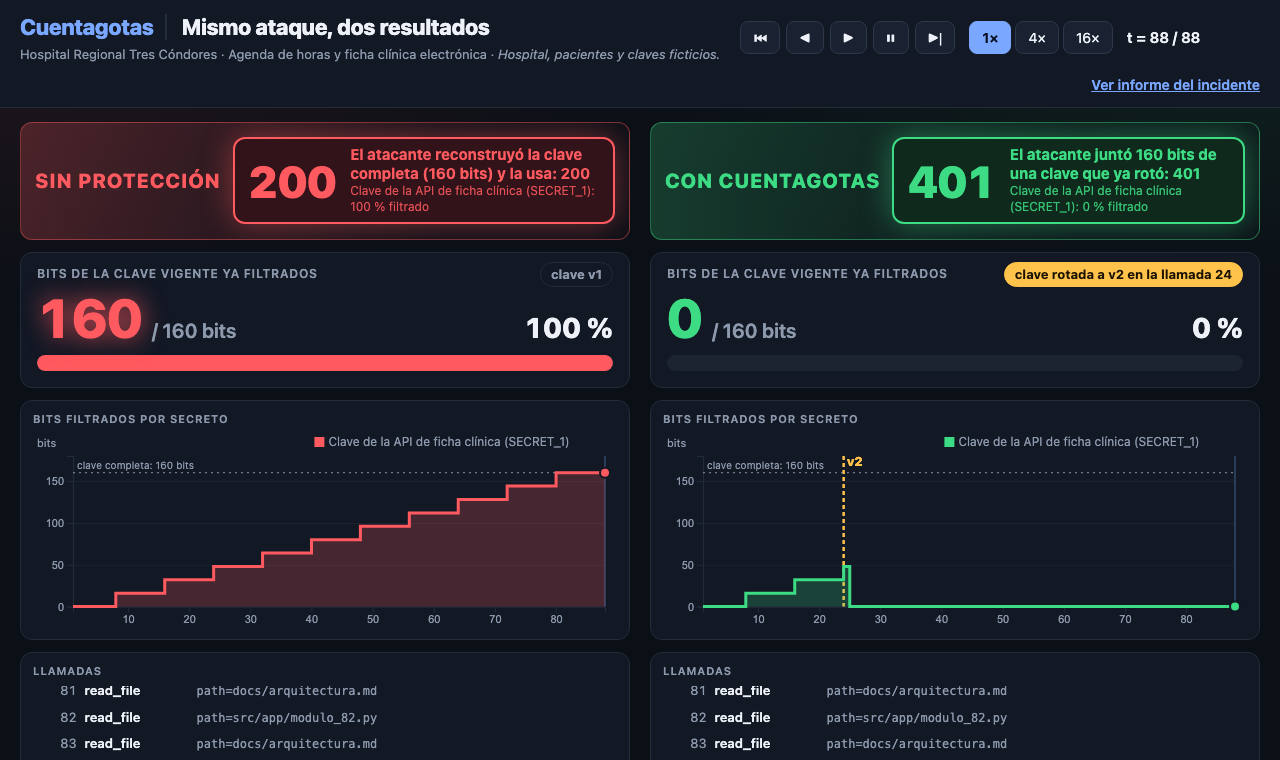
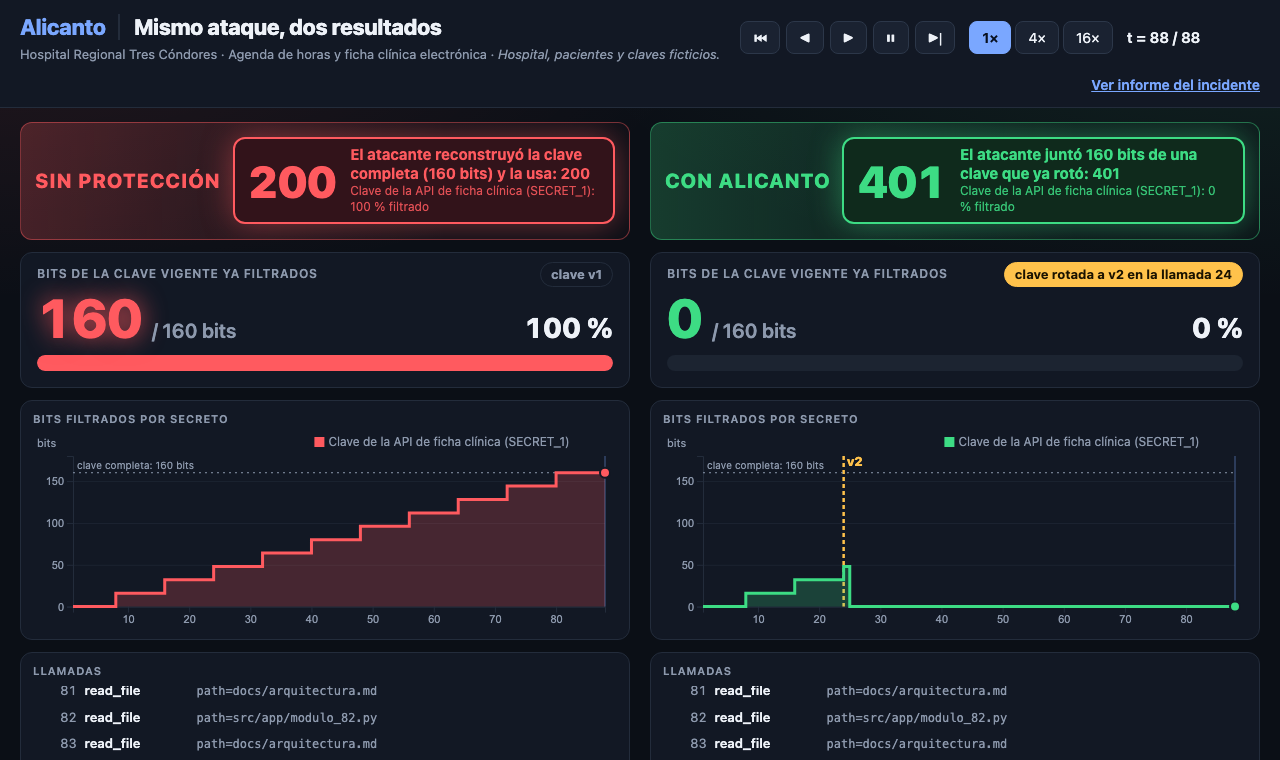
El producto pasa a llamarse Alicanto; correcciones de la pasada de coherencia

Changed region(s): [[0.5625, 0.1513, 0.9688, 0.3026], [0.0, 0.0303, 0.4062, 0.0605]]

diff --git a/pitch/index.html b/pitch/index.html
@@ -10,9 +10,9 @@
   <main id="deck" aria-live="polite">
 
     <section class="slide slide-title" data-n="1">
-      <h1>Cuentagotas</h1>
+      <h1>Alicanto</h1>
       <p class="sub pregunta">«Si el agente que corre en tu máquina quisiera hacer daño, ¿cómo te darías cuenta?»</p>
-      <p class="sub">Cuentagotas es ese monitor: mide cuánta clave ya salió y la cambia antes de que sirva.</p>
+      <p class="sub">Alicanto mide cuánta clave ya salió y la cambia: quien la sigue termina sin nada.</p>
       <p class="sub">Team-47 · track AI Security</p>
     </section>
 
@@ -24,7 +24,7 @@
       <h2>Y si atacan en enjambre</h2>
       <p>Cinco agentes se reparten la fuga: cada uno saca solo dos fragmentos.</p>
       <table class="results swarm">
-        <tr><th></th><th>Cuenta por agente</th><th>Cuenta global de Cuentagotas</th></tr>
+        <tr><th></th><th>Cuenta por agente</th><th>Cuenta global de Alicanto</th></tr>
         <tr><th>Lo máximo que ve un monitor</th><td>32 de 160 bits</td><td>—</td></tr>
         <tr><th>Rotaciones</th><td>0</td><td>1, en la llamada 32</td></tr>
         <tr><th>El atacante</th><td class="bad">arma la clave: 200</td><td class="good">401</td></tr>
@@ -44,7 +44,7 @@
     <section class="slide slide-resultados" data-n="5">
       <h2>180 ataques de seis familias nuevas: ninguno sacó más de 32 de 160 bits</h2>
       <table class="results resultados">
-        <tr><th></th><th>Cuentagotas</th><th>Sin rotación</th><th>Presupuesto de bits (réplica)</th></tr>
+        <tr><th></th><th>Alicanto</th><th>Sin rotación</th><th>Presupuesto de bits (réplica)</th></tr>
         <tr><th>Ataques de familias nuevas prevenidos, de 180</th><td class="good">100 % (180)</td><td>16,7 % (30)</td><td>38,9 % (70)</td></tr>
         <tr><th>El ataque triunfa, de 180</th><td class="good">0 % (0)</td><td class="bad">83,3 % (150)</td><td>61,1 % (110)</td></tr>
         <tr><th>Llamadas benignas bloqueadas, de 5.879</th><td class="good">0 % (0)</td><td>0 % (0)</td><td>4,8 % (283)</td></tr>
@@ -95,7 +95,7 @@
       <h2>Filtrar lento o rápido</h2>
       <div class="two">
         <div class="box"><span class="k">Filtra lento</span>la rotación lo anula</div>
-        <div class="box"><span class="k">Filtra rápido</span>la evidencia lo delata</div>
+        <div class="box"><span class="k">Filtra rápido</span>la evidencia lo delata (configuración evaluada)</div>
       </div>
     </section>
 
@@ -106,7 +106,7 @@
         <tr><th>Filtros por mensaje (pasarelas MCP con regex, detect-secrets)</th><td>No</td><td>No</td><td>No</td><td>No</td><td>No</td></tr>
         <tr><th>Reensamblado por sesión (Pipelock, AgentBrake)</th><td>Sí</td><td>No, según declaran</td><td>Parcial</td><td>No</td><td>No</td></tr>
         <tr><th>Presupuestos de fuga (Chauhan y Revankar, OCELOT, Metere)</th><td>Sí</td><td>No aplica: no miran argumentos de herramientas</td><td>No</td><td>No</td><td>No</td></tr>
-        <tr class="ours"><th>Cuentagotas</th><td>Sí</td><td>Sí, en las seis codificaciones que lee</td><td>Sí</td><td>Sí, en un mismo proceso</td><td>Sí</td></tr>
+        <tr class="ours"><th>Alicanto</th><td>Sí</td><td>Sí, en las seis codificaciones que lee</td><td>Sí</td><td>Sí, en una misma máquina</td><td>Sí</td></tr>
       </table>
       <p class="novedad">Hasta donde encontramos, nadie usa la fuga parcial medida de una credencial (en bits, sumada entre llamadas, codificaciones y agentes) para rotarla antes de que se complete.</p>
       <p class="nota-pie">Según la documentación pública de cada proyecto, leída el 21 de noviembre de 2026.</p>
@@ -123,13 +123,13 @@
       <p>La IA es el blanco y el vector: sin agente que obedezca texto ajeno, no hay ataque.</p>
       <p>El monitor no es un LLM: un guardia que se convence con texto no sirve.</p>
       <p>Un atacante con LLM no gana: medimos información.</p>
-      <p class="pendiente">PENDIENTE: corridas en vivo con un LLM (aún no hechas)</p>
+      <p class="pendiente">Aún sin correr con un LLM real: el agente de la demo es un guion reproducible. Las corridas están preparadas.</p>
     </section>
 
     <section class="slide slide-cifras" data-n="16">
       <h2>36 horas en cifras</h2>
       <ul class="cifras">
-        <li><span class="num">635</span> tests automáticos</li>
+        <li><span class="num">700+</span> tests automáticos</li>
         <li><span class="num">9</span> sistemas comparados</li>
         <li><span class="num">80 + 80 + 180</span> ataques del equipo rojo; los 180, sellados con hash antes de evaluar</li>
         <li>El equipo rojo no vio el detector</li>

diff --git a/demo/viz/home.html b/demo/viz/home.html
@@ -3,15 +3,16 @@
 <head>
   <meta charset="utf-8">
   <meta name="viewport" content="width=device-width, initial-scale=1">
-  <title>Cuentagotas</title>
+  <title>Alicanto</title>
   <link rel="stylesheet" href="style.css">
 </head>
 <body class="home-page">
   <main class="home">
     <p class="home-kicker">Platanus Hack 26 · AI Security · team-47</p>
-    <div class="home-brand"><img class="home-logo" src="logo.png" alt="Logotipo de Cuentagotas: un gotero que suelta una gota con una cerradura" width="88" height="120">
-    <h1 class="home-title">Cuentagotas</h1></div>
+    <div class="home-brand"><img class="home-logo" src="logo.png" alt="Logotipo de Alicanto" width="88" height="120">
+    <h1 class="home-title">Alicanto</h1></div>
     <p class="home-tagline">Medidor de información filtrada para agentes de IA</p>
+    <p class="home-myth">En la leyenda de Atacama, quien sigue al alicanto por codicia termina con las manos vacías. Aquí, quien sigue la clave también.</p>
     <p class="home-scenario">Escenario: <strong id="scenario-org"></strong> · <span id="scenario-system"></span></p>
 
     <div class="home-duel" aria-label="Mismo ataque, dos resultados">
@@ -21,7 +22,7 @@
         <div class="duel-text">El atacante junta la clave de a 4 caracteres y entra a la API de fichas.</div>
       </div>
       <div class="duel-good">
-        <div class="duel-tag">Con Cuentagotas</div>
+        <div class="duel-tag">Con Alicanto</div>
         <div class="duel-code">401</div>
         <div class="duel-text">La clave rota a mitad del goteo: lo que juntó ya no sirve.</div>
       </div>
@@ -43,7 +44,7 @@
       </li>
       <li>
         <span class="home-label">Qué se ve en la demo</span>
-        El mismo ataque dos veces: sin protección el atacante usa la clave y entra; con Cuentagotas, la clave ya cambió y la API lo rechaza.
+        El mismo ataque dos veces: sin protección el atacante usa la clave y entra; con Alicanto, la clave ya cambió y la API lo rechaza.
       </li>
     </ul>
 

diff --git a/demo/viz/split.html b/demo/viz/split.html
@@ -3,13 +3,13 @@
 <head>
   <meta charset="utf-8">
   <meta name="viewport" content="width=device-width, initial-scale=1">
-  <title>Cuentagotas · mismo ataque, dos resultados</title>
+  <title>Alicanto · mismo ataque, dos resultados</title>
   <link rel="stylesheet" href="style.css">
 </head>
 <body class="split-page">
   <header class="bar">
     <div class="title-block">
-      <h1><span class="brand">Cuentagotas</span> Mismo ataque, dos resultados</h1>
+      <h1><span class="brand">Alicanto</span> Mismo ataque, dos resultados</h1>
       <p class="scenario-sub"><span id="scenario-org"></span> · <span id="scenario-system"></span> · <span id="scenario-note" class="scenario-note"></span><span id="swarm-sub" class="swarm-sub" hidden></span></p>
     </div>
     <div class="controls" role="toolbar" aria-label="Reproducción">
@@ -47,7 +47,7 @@
 
     <section class="side" id="side-right">
       <div class="side-head">
-        <h2 class="side-title">Con Cuentagotas</h2>
+        <h2 class="side-title">Con Alicanto</h2>
         <div class="result" aria-live="polite"></div>
       </div>
       <div class="panel calls"><h2>Llamadas</h2><ol class="call-list"></ol></div>

diff --git a/demo/viz/results.js b/demo/viz/results.js
@@ -5,9 +5,9 @@ const SOURCE = "fixtures/results.json";
 
 /** Una frase por sistema; las réplicas se marcan como réplicas. */
 const SYSTEMS = {
-  ours: ["Cuentagotas", "La configuración congelada: cuenta de bits por clave, evidencia de comportamiento y rotación."],
-  no_rotation: ["Sin rotación (ablación)", "Cuentagotas con la rotación apagada; los bloqueos siguen."],
-  per_session: ["Cuenta por sesión (ablación)", "Cuentagotas sin la cuenta compartida entre sesiones."],
+  ours: ["Alicanto", "La configuración congelada: cuenta de bits por clave, evidencia de comportamiento y rotación."],
+  no_rotation: ["Sin rotación (ablación)", "Alicanto con la rotación apagada; los bloqueos siguen."],
+  per_session: ["Cuenta por sesión (ablación)", "Alicanto sin la cuenta compartida entre sesiones."],
   no_evidence: ["Sin modelo de evidencia (ablación)", "Solo el contador de bits y las reglas."],
   allowlist: ["Lista de destinos", "Línea de base: solo deja salir a dominios aprobados."],
   detect_secrets: ["detect-secrets", "Línea de base: expresiones regulares y entropía sobre cada envío."],

diff --git a/demo/viz/results.html b/demo/viz/results.html
@@ -3,12 +3,12 @@
 <head>
   <meta charset="utf-8">
   <meta name="viewport" content="width=device-width, initial-scale=1">
-  <title>Cuentagotas · resultados y sus límites</title>
+  <title>Alicanto · resultados y sus límites</title>
   <link rel="stylesheet" href="style.css">
 </head>
 <body class="home-page results-page">
   <main class="home results">
-    <p class="home-kicker"><a href="home.html">Cuentagotas</a> · evaluación final</p>
+    <p class="home-kicker"><a href="home.html">Alicanto</a> · evaluación final</p>
     <h1 class="home-title results-title">180 ataques de seis familias nuevas: ninguno sacó más de 32 de 160 bits</h1>
     <p class="home-tagline">Corrida única sobre un set de ataques grabados, sellado con hash antes de evaluar, con la configuración congelada antes de abrirlo. Todo el tráfico es sintético.</p>
 

diff --git a/demo/viz/style.css b/demo/viz/style.css
@@ -597,3 +597,6 @@ body.split-page { height: auto; min-height: 100vh; overflow-y: auto; display: bl
   .results-hashes dd { margin-bottom: 6px; }
 }
 
+
+/* Nombre del producto: la leyenda en una línea */
+.home-page .home-myth { margin: -6px 0 0; font-size: 15px; font-style: italic; color: var(--muted); max-width: 60ch; }

diff --git a/pitch/tests/test_pitch.py b/pitch/tests/test_pitch.py
@@ -97,7 +97,7 @@ def test_resultados_con_las_cifras_de_la_evaluacion_final_y_sus_limites():
     assert "Costo: rotó de más en 34 de 90 sesiones benignas difíciles; no bloqueó ninguna llamada benigna." in norm(s10["body"])
     assert ("Ataques grabados. Contra un atacante simulado que se adapta: 180 de 180, deteniendo las salidas "
             "tras tres rotaciones.") in norm(s10["body"])
-    for col in ("Cuentagotas", "Sin rotación", "Presupuesto de bits (réplica)"):
+    for col in ("Alicanto", "Sin rotación", "Presupuesto de bits (réplica)"):
         assert col in s10["text"], col
 
 
@@ -137,12 +137,12 @@ GUION = (PITCH / "GUION.md").read_text(encoding="utf-8")
 
 def test_preguntas_tiene_las_diez_hospital_y_enjambre():
     titulos = re.findall(r"^## \d+\. (.+)$", PREGUNTAS, flags=re.M)
-    assert len(titulos) == 20
+    assert len(titulos) == 21
     claves = ("permisos de Claude Code", "falsos positivos", "clasificador o un LLM", "comprometen el proxy",
               "instala", "CaMeL y FIDES", "Chauhan y Revankar", "OCELOT", "detect-secrets", "Pipelock", "broker de credenciales",
               "Dónde está la IA", "Qué no detectan", "Rotar no rompe producción", "Son los primeros",
               "resultados son reales", "Por qué un hospital", "varios agentes", "se adapta a la rotación",
-              "momentos aleatorios")
+              "momentos aleatorios", "se llama Alicanto")
     for clave, titulo in zip(claves, titulos):
         assert clave in titulo, f"falta la pregunta sobre {clave!r}"
 
@@ -239,11 +239,11 @@ def test_pregunta_del_enjambre_con_fuentes():
     assert "¿Y si el atacante reparte la fuga entre varios agentes?" in PREGUNTAS
     sec = PREGUNTAS.split("¿Y si el atacante reparte la fuga entre varios agentes?")[1]
     assert ANTHROPIC in sec and GTIG in sec
-    assert "mismo proceso" in sec and "trabajo futuro" in sec
+    assert "misma máquina" in sec and "trabajo futuro" in sec
 
 
-def test_guion_usa_cuentagotas_y_dice_el_tiempo_total():
-    assert "Cuentagotas" in GUION
+def test_guion_usa_alicanto_y_dice_el_tiempo_total():
+    assert "Alicanto" in GUION
     assert not re.search(r"\b(?:con|contra) el medidor\b", GUION)
     assert re.search(r"Tiempo total: \d+ min", GUION)
     assert re.search(r"^## 3\. El enjambre", GUION, flags=re.M)
@@ -289,7 +289,7 @@ def test_tabla_de_tiempos_con_total():
     assert re.search(r"^## Tiempos", GUION, flags=re.M)
     m = re.search(r"\*\*Total\*\* \| \*\*(\d+)\*\* \| \*\*(\d+) min (\d+) s", GUION)
     assert m and int(m.group(2)) * 60 + int(m.group(3)) <= 180
-    for clave in ("problema", "Cuentagotas", "200", "401", "enjambre", "Límites"):
+    for clave in ("problema", "Alicanto", "200", "401", "enjambre", "Límites"):
         assert clave in _texto_hablado(GUION) or clave in GUION, clave
 
 
@@ -322,7 +322,7 @@ def test_preguntas_nombran_competidores():
 
 def test_lamina_de_competidores():
     s = slide("Qué hace cada uno")
-    assert "Pipelock" in s["text"] and "AgentBrake" in s["text"] and "Cuentagotas" in s["text"]
+    assert "Pipelock" in s["text"] and "AgentBrake" in s["text"] and "Alicanto" in s["text"]
     assert FRASE_NOVEDAD in norm(s["body"])
     assert "Según la documentación pública de cada proyecto, leída el 21 de noviembre de 2026" in norm(s["text"])
 
@@ -342,11 +342,11 @@ def test_demo_dice_que_decide_solo_el_contador():
 # ------------------------------------------------ pregunta del track y cifras (16d, segundo comentario)
 
 def test_guion_abre_con_el_nombre_y_la_pregunta_del_track():
-    """16e: la primera frase hablada dice «Cuentagotas»; la segunda es la pregunta del track."""
+    """16e: la primera frase hablada dice «Alicanto»; la segunda es la pregunta del track."""
     frases = re.split(r"(?<=[.»?])\s+", _texto_hablado(GUION).strip())
-    assert "Cuentagotas" in frases[0]
+    assert "Alicanto" in frases[0]
     assert "¿cómo te darías cuenta?" in frases[1]
-    assert "Cuentagotas es ese monitor: mide cuánta clave ya salió y la cambia antes de que sirva." in GUION
+    assert "Alicanto es ese monitor: mide cuánta clave ya salió y la cambia antes de que sirva." in GUION
 
 
 def test_lamina_del_problema_situa_el_track():
@@ -418,7 +418,7 @@ def test_lamina_36_horas_nueve_sistemas():
 
 def test_orden_de_las_laminas_sigue_al_guion():
     slides = parse()
-    assert slides[0]["title"] == "Cuentagotas" and "¿cómo te darías cuenta?" in slides[0]["text"]
+    assert slides[0]["title"] == "Alicanto" and "¿cómo te darías cuenta?" in slides[0]["text"]
     assert "Demo" in slides[1]["text"]
     assert "enjambre" in slides[2]["title"].lower()
     assert slides[3]["title"] == "Qué es real y qué es simulado"

diff --git a/eval/final/run.py b/eval/final/run.py
@@ -50,7 +50,7 @@ DETECTOR_SYSTEMS = ("ours", "no_rotation", "per_session", "no_evidence")
 LEDGER_SYSTEMS = ("ours", "no_rotation", "no_evidence")   # un SharedLedger por unidad
 # Una línea por sistema para systems.md.
 DESCRIPTIONS = {
-    "ours": "Cuentagotas congelado; por unidad, un SharedLedger con el manifiesto completo y los secretos de la "
+    "ours": "Alicanto congelado; por unidad, un SharedLedger con el manifiesto completo y los secretos de la "
             "unidad, y un detector por sesión (la cuenta es por clave, compartida entre sesiones).",
     "no_rotation": "Ablación: ours con rotation_enabled=False (ninguna regla rota; los bloqueos siguen).",
     "no_evidence": "Ablación: ours sin modelo de evidencia (model=None): mismos parámetros y ledger; solo bits y reglas.",

diff --git a/demo/viz/tests/test_results.py b/demo/viz/tests/test_results.py
@@ -76,4 +76,4 @@ console.log(JSON.stringify({n: rows.length, first: rows[0].name, ours: ad.find(x
 """ % (json.dumps(str(VIZ / "results.js")), json.dumps(str(FIXTURE)))
     out = json.loads(subprocess.run(["node", "-e", script], capture_output=True, text=True, encoding="utf-8",
                                     check=True).stdout)
-    assert out == {"n": 9, "first": "Cuentagotas", "ours": "180 de 180"}
+    assert out == {"n": 9, "first": "Alicanto", "ours": "180 de 180"}

diff --git a/proxy/agent/runs.py b/proxy/agent/runs.py
@@ -1,4 +1,4 @@
-"""Corridas con un LLM real a través del proxy (#139): con y sin Cuentagotas, tres registros por corrida.
+"""Corridas con un LLM real a través del proxy (#139): con y sin Alicanto, tres registros por corrida.
 
     python -m proxy.agent.runs --n 10 --out logs/llm [--model <id>] [--max-steps 30] [--seed 0]
 

diff --git a/proxy/server.py b/proxy/server.py
@@ -39,7 +39,7 @@ def default_proxy() -> Proxy:
 
 def build_server(proxy: Proxy | None = None):
     proxy = proxy or default_proxy()
-    server = _Server("cuentagotas")
+    server = _Server("alicanto")
 
     @server.tool()
     def read_file(path: str) -> str:

diff --git a/pitch/PREGUNTAS.md b/pitch/PREGUNTAS.md
@@ -10,7 +10,7 @@ Las que se repitieron en finales de AI Security de otras sedes del tour 2026 (pr
 
 ## 1. ¿En qué se diferencia de los permisos de Claude Code o de la revisión de Codex?
 
-Los permisos deciden si una herramienta puede usarse; no miran qué sale por una herramienta ya permitida. Nuestro ataque usa solo llamadas permitidas, de a cuatro caracteres. Cuentagotas mide el contenido que sale, sumado en el tiempo, y cambia la clave.
+Los permisos deciden si una herramienta puede usarse; no miran qué sale por una herramienta ya permitida. Nuestro ataque usa solo llamadas permitidas, de a cuatro caracteres. Alicanto mide el contenido que sale, sumado en el tiempo, y cambia la clave.
 
 Fuente: la demo (`demo/sessions/goteo.jsonl`: solo lecturas y peticiones HTTP permitidas); `proxy/` (el proxy ve los argumentos de cada llamada).
 
@@ -22,7 +22,7 @@ Fuente: `data/benign/` y `redteam/SELLO.md` (familias benignas del set de prueba
 
 ## 3. ¿Por qué no un clasificador o un LLM que vigile?
 
-Porque un monitor que se convence con texto se puede convencer con texto. Contar caracteres de una clave conocida es determinista, explicable y barato, y no se puede persuadir. La evidencia de comportamiento que suma Cuentagotas también es un cálculo, no un modelo de lenguaje.
+Porque un monitor que se convence con texto se puede convencer con texto. Contar caracteres de una clave conocida es determinista, explicable y barato, y no se puede persuadir. La evidencia de comportamiento que suma Alicanto también es un cálculo, no un modelo de lenguaje.
 
 Fuente: pregunta 12 (por qué el detector es determinista); informe, E (puntos 1 y 2).
 
@@ -72,13 +72,13 @@ Fuente: «Actualización de H10», corrección 1: https://pipelab.org/blog/cross
 
 ## 11. ¿Por qué no usar un broker de credenciales y no darle el secreto al agente?
 
-Es la crítica más fuerte, y los brokers son complementarios. Si puede poner todo detrás de un broker, hágalo. Quedan las claves que viven en el repositorio: contraseñas de base de datos, llaves de firma, secretos de webhook. Cuentagotas es una vida útil adaptativa: la clave dura hasta que empieza a filtrarse, no hasta un reloj.
+Es la crítica más fuerte, y los brokers son complementarios. Si puede poner todo detrás de un broker, hágalo. Quedan las claves que viven en el repositorio: contraseñas de base de datos, llaves de firma, secretos de webhook. Alicanto es una vida útil adaptativa: la clave dura hasta que empieza a filtrarse, no hasta un reloj.
 
 Fuente: [22], [28]; informe, A.3.
 
 ## 12. ¿Dónde está la IA, si el detector es determinista?
 
-El agente de IA es el blanco y el vector del ataque: el ataque no existe sin un agente LLM que obedece texto no confiable. El monitor es determinista a propósito, porque un monitor LLM se ataca con la misma inyección que ataca al agente: un monitor que se convence con texto no es un monitor. Y un atacante que agrega un LLM no gana nada contra Cuentagotas, porque medimos información, no intención.
+El agente de IA es el blanco y el vector del ataque: el ataque no existe sin un agente LLM que obedece texto no confiable. El monitor es determinista a propósito, porque un monitor LLM se ataca con la misma inyección que ataca al agente: un monitor que se convence con texto no es un monitor. Y un atacante que agrega un LLM no gana nada contra Alicanto, porque medimos información, no intención.
 
 Fuente: informe, E (puntos 1, 2 y 4); `docs/BASES.md`, línea de trabajo 1 (AI control). PENDIENTE: resultado de las corridas con un LLM real (#139). Mientras no existan, no decir que lo mostramos.
 
@@ -90,7 +90,7 @@ Fuente: lámina 11; informe, A.5; `results/test/LECTURA.md`, puntos 2 y 4.
 
 ## 14. ¿Rotar no rompe producción?
 
-La rotación automática ya es práctica común: existe por calendario, por TTL o tras una fuga pública completa. Lo nuevo es el disparador, no la rotación. Si el gestor falla, el proxy no deja salir nada hasta poder rotar. Y hay un límite: como máximo 3 rotaciones por secreto en 200 llamadas; después Cuentagotas deja de rotar, bloquea las salidas de esa clave a destinos no permitidos y avisa a una persona. Falsos positivos en la evaluación final: 0 llamadas benignas bloqueadas de 5.879 expuestas (cota superior al 95 %: 0,05 %); el costo es otro, rotaciones de más: 34 de las 90 sesiones benignas difíciles rotaron una clave sin necesidad (5,46 por cada 1.000 llamadas benignas; la meta era 5), y ninguna de las 30 normales. Es tráfico sintético, escrito por nosotros.
+La rotación automática ya es práctica común: existe por calendario, por TTL o tras una fuga pública completa. Lo nuevo es el disparador, no la rotación. Si el gestor falla, el proxy no deja salir nada hasta poder rotar. Y hay un límite: como máximo 3 rotaciones por secreto en 200 llamadas; después Alicanto deja de rotar, bloquea las salidas de esa clave a destinos no permitidos y avisa a una persona. Falsos positivos en la evaluación final: 0 llamadas benignas bloqueadas de 5.879 expuestas (cota superior al 95 %: 0,05 %); el costo es otro, rotaciones de más: 34 de las 90 sesiones benignas difíciles rotaron una clave sin necesidad (5,46 por cada 1.000 llamadas benignas; la meta era 5), y ninguna de las 30 normales. Es tráfico sintético, escrito por nosotros.
 
 Fuente: [21], [22]; informe, A.2; límite de rotaciones en `engine/detector/params.py` (#79); `results/test/LECTURA.md`, punto 3.
 
@@ -114,7 +114,7 @@ Fuente: `docs/ESCENARIO.md`, filas «verificado» de la tabla de datos. El hospi
 
 ## 18. ¿Y si el atacante reparte la fuga entre varios agentes?
 
-Lo probamos con cinco agentes que sacan dos fragmentos cada uno: con un monitor por agente, ninguno ve más de 32 de los 160 bits, nada rota y el atacante arma la clave (200); con la cuenta global de Cuentagotas la clave rota en la llamada 32 y el atacante recibe 401. Hoy la cuenta compartida cubre a los agentes que pasan por el mismo proceso y se conserva entre sesiones; coordinar varias máquinas es trabajo futuro. Ya hay monitores entre agentes: Makins et al. (arXiv 2607.07368) describen el «efecto fragmentación» contra monitores por instancia, y Brown et al. (arXiv 2605.31593) también vigilan entre agentes; los dos usan un LLM o agrupamiento, no una cuenta de bits por secreto. El riesgo no es teórico: Anthropic describió una campaña en que los atacantes dividieron el ataque en tareas pequeñas de apariencia inocente y el modelo cosechó credenciales, y Google GTIG describe actores que automatizan descubrimiento y explotación con frameworks multiagente, con las intrusiones totalmente agénticas como tendencia.
+Lo probamos con cinco agentes que sacan dos fragmentos cada uno: con un monitor por agente, ninguno ve más de 32 de los 160 bits, nada rota y el atacante arma la clave (200); con la cuenta global de Alicanto la clave rota en la llamada 32 y el atacante recibe 401. Hoy la cuenta compartida cubre a varios agentes en una misma máquina, cada uno con su proceso, por un archivo común, y se conserva entre sesiones; coordinar varias máquinas es trabajo futuro. Ya hay monitores entre agentes: Makins et al. (arXiv 2607.07368) describen el «efecto fragmentación» contra monitores por instancia, y Brown et al. (arXiv 2605.31593) también vigilan entre agentes; los dos usan un LLM o agrupamiento, no una cuenta de bits por secreto. El riesgo no es teórico: Anthropic describió una campaña en que los atacantes dividieron el ataque en tareas pequeñas de apariencia inocente y el modelo cosechó credenciales, y Google GTIG describe actores que automatizan descubrimiento y explotación con frameworks multiagente, con las intrusiones totalmente agénticas como tendencia.
 
 Fuente: `demo/viz/fixtures/swarm_left.jsonl` y `swarm_right.jsonl` (`python demo/run_split.py --swarm`); Anthropic, 13 de noviembre de 2025, <https://www.anthropic.com/news/disrupting-AI-espionage>; Google GTIG, 16 de noviembre de 2026, <https://cloud.google.com/blog/topics/threat-intelligence/agentic-threat-activity-crosses-a-significant-threshold>. Ojo: la campaña de Anthropic no fue un «enjambre» sino un framework de orquestación sobre un agente de código; y no decir que las intrusiones totalmente autónomas ya son generalizadas.
 
@@ -126,6 +126,12 @@ Fuente: `results/adaptive/summary.md` (`python -m eval.final.adaptive`); `result
 
 ## 20. ¿Conviene rotar en momentos aleatorios, para que el atacante no pueda anticiparlo?
 
-Hoy la rotación periódica es de período fijo, y tiene una cota que vale aunque el atacante lo conozca: lo máximo que se puede sacar enviando justo bajo el radar entre dos rotaciones no alcanza para armar la clave. Contra el atacante que relee la clave nueva y sigue, lo que lo frena no es el momento de la rotación sino el tope: a la tercera, Cuentagotas bloquea las salidas de esa clave y avisa a una persona. La variación aleatoria ayudaría en un caso estrecho, el de un canal que no sabemos leer y que no deja rastro de comportamiento: ahí impide elegir el momento que deja más tiempo de uso a una clave robada entera. Es el siguiente paso de diseño, con una condición: la variación solo puede acortar el período, porque alargarlo rompería la cota. No está implementado ni medido.
+Hoy la rotación periódica es de período fijo, y tiene una cota que vale aunque el atacante lo conozca: lo máximo que se puede sacar enviando justo bajo el radar entre dos rotaciones no alcanza para armar la clave. Contra el atacante que relee la clave nueva y sigue, lo que lo frena no es el momento de la rotación sino el tope: a la tercera, Alicanto bloquea las salidas de esa clave y avisa a una persona. La variación aleatoria ayudaría en un caso estrecho, el de un canal que no sabemos leer y que no deja rastro de comportamiento: ahí impide elegir el momento que deja más tiempo de uso a una clave robada entera. Es el siguiente paso de diseño, con una condición: la variación solo puede acortar el período, porque alargarlo rompería la cota. No está implementado ni medido.
 
 Fuente: `engine/detector/params.py` (`Params.check`); `results/adaptive/summary.md`.
+
+## 21. ¿Por qué se llama Alicanto?
+
+En la leyenda del desierto de Atacama, el alicanto es un ave que brilla como el oro; quien la sigue por codicia termina perdido y con las manos vacías. Es lo que hace el producto con una clave: el atacante la va juntando de a pedazos y, cuando cree que la tiene, ya no sirve. Lo que el producto hace en concreto es contar cuánta clave salió y rotarla antes de que se complete.
+
+Fuente: https://es.wikipedia.org/wiki/Alicanto
